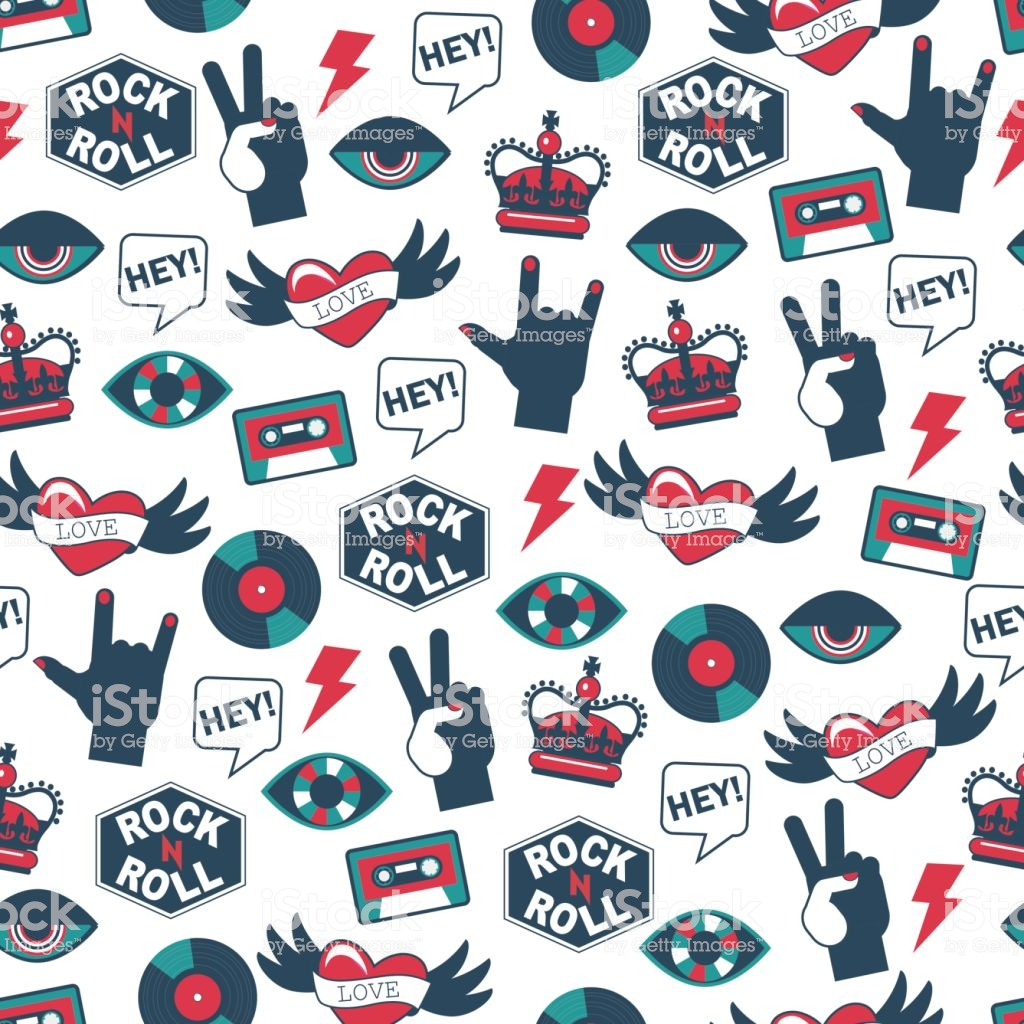
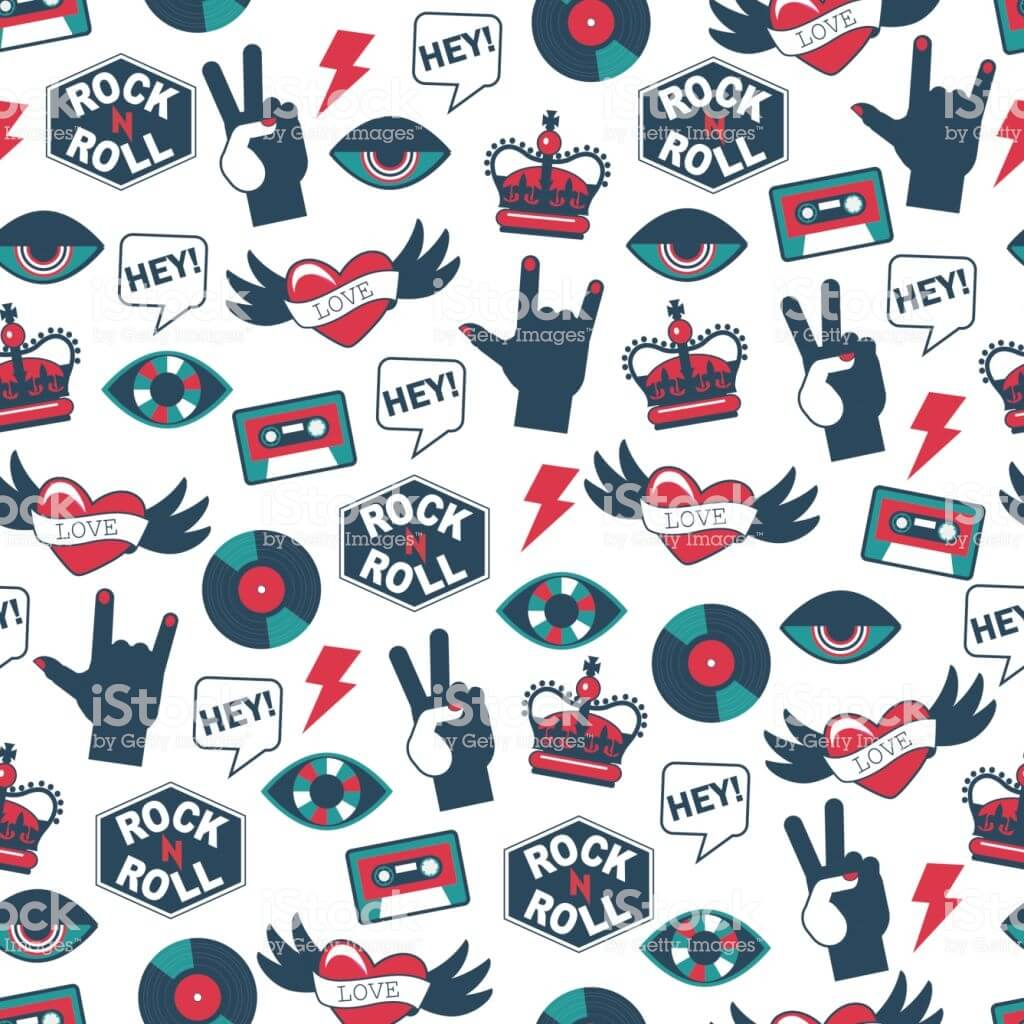
imagenes reducidas

diff --git a/css/styles.css b/css/styles.css
@@ -122,7 +122,7 @@ hr{
     padding: 3em;
     justify-content: center;
     position: relative;
-    background: url('/images/rock_guitarra1.jpg') no-repeat center center/cover;
+    background: url(/images/rock_guitarra1.jpg) no-repeat center center/cover;
 }
 
 .header-page::before{
